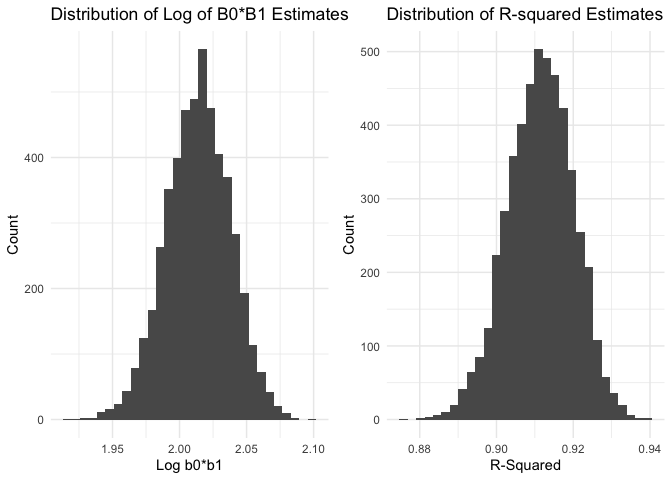
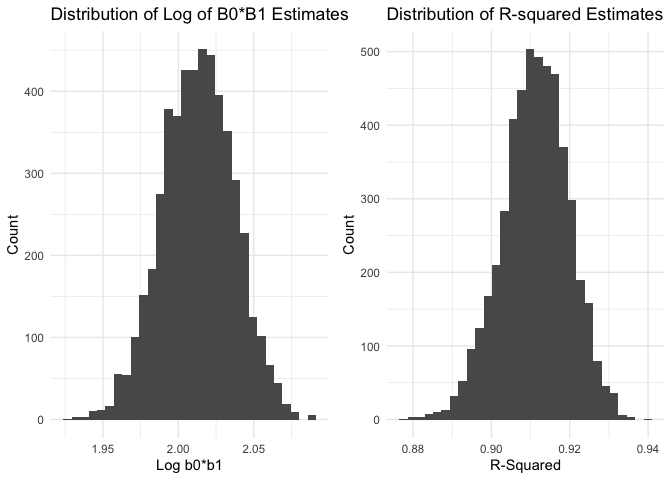
confidence intervals

diff --git a/p8105_hw6_cq2207.md b/p8105_hw6_cq2207.md
@@ -7,14 +7,14 @@ Carolina Q Cardoso
 library(tidyverse)
 ```
 
-    ## ── Attaching packages ──────────────────────────────────────────────────────────────────────── tidyverse 1.2.1 ──
+    ## ── Attaching packages ───────────────────────────────────────────────────────────────────────── tidyverse 1.2.1 ──
 
     ## ✔ ggplot2 3.2.1     ✔ purrr   0.3.2
     ## ✔ tibble  2.1.3     ✔ dplyr   0.8.3
     ## ✔ tidyr   1.0.0     ✔ stringr 1.4.0
     ## ✔ readr   1.3.1     ✔ forcats 0.4.0
 
-    ## ── Conflicts ─────────────────────────────────────────────────────────────────────────── tidyverse_conflicts() ──
+    ## ── Conflicts ──────────────────────────────────────────────────────────────────────────── tidyverse_conflicts() ──
     ## ✖ dplyr::filter() masks stats::filter()
     ## ✖ dplyr::lag()    masks stats::lag()
 
@@ -330,5 +330,25 @@ plot1 + plot2
 
 ![](p8105_hw6_cq2207_files/figure-gfm/unnamed-chunk-7-1.png)<!-- -->
 
+The distribution of values of R-squared and log (b0\*b1) are roughly
+normal.
+
 *Identify the 2.5% and 97.5% quantiles to provide a 95% confidence
 interval for r̂ 2 andlog(β̂ 0∗β̂ 1)*
+
+``` r
+quantile(pull(bootstrap_results2, r.squared), probs = c(0.025, 0.975)) 
+```
+
+    ##      2.5%     97.5% 
+    ## 0.8937060 0.9270924
+
+``` r
+quantile(pull(bootstrap_results, log), probs = c(0.025, 0.975)) 
+```
+
+    ##     2.5%    97.5% 
+    ## 1.965516 2.058874
+
+The 95% CI for R-squared is (0.894, 0.927) and the 95% confidence
+interval for log(b0\*b1) is (1.965, 2.058).
